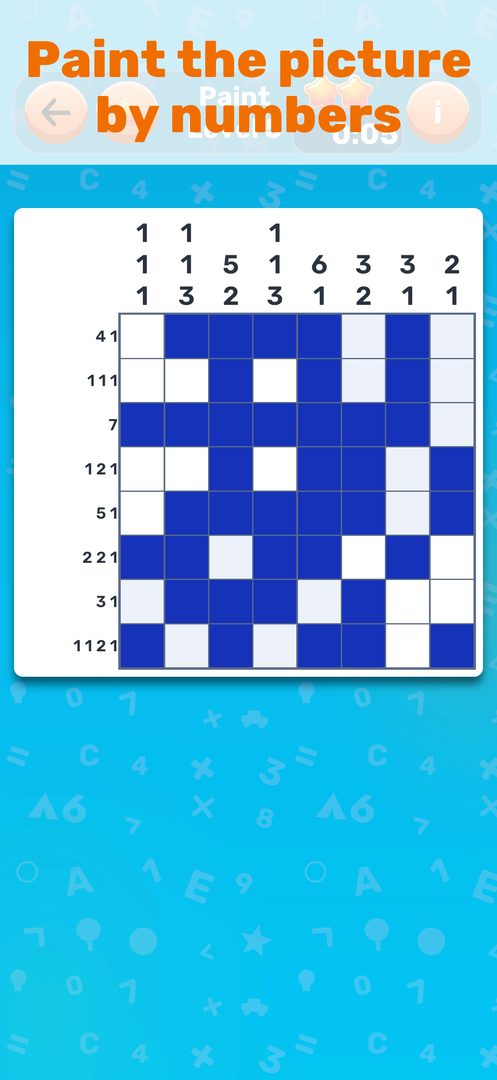
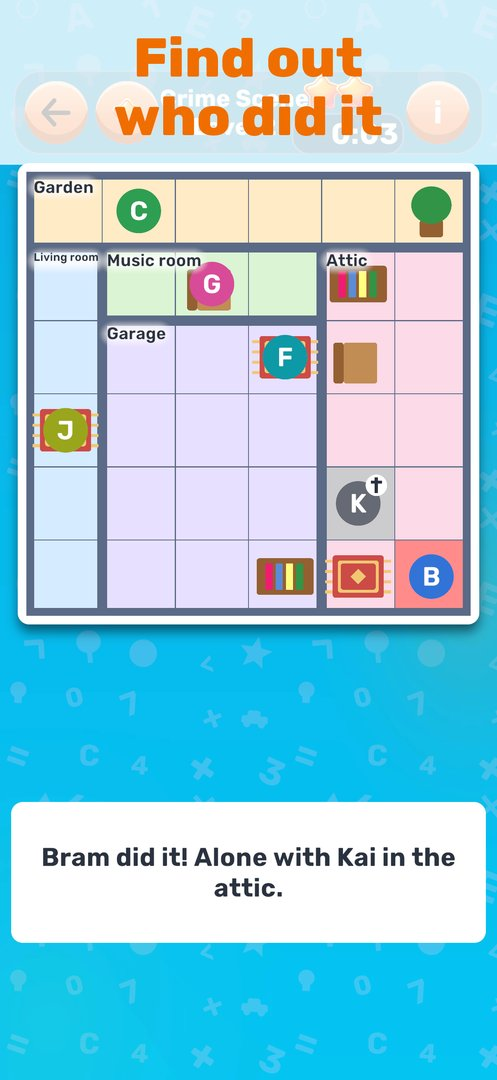
Offline set: refresh PuzzleKing slides (Sudoku, Crime Scene, Traffic Jam)
Taken from puzzle-promo's current iPhone 6.3" store stills, scaled to 1080 px
high. Same file names and metas, so the fallback asset needs no rebuild.
EditMode 118/118.

Claude-Session: https://claude.ai/code/session_01Rjw3u7jEnENNUurdGYa722

diff --git a/Packages/com.relead.crosspromo/CHANGELOG.md b/Packages/com.relead.crosspromo/CHANGELOG.md
@@ -1,5 +1,9 @@
 # Changelog
 
+## [Unreleased]
+
+- Offline fallback set: PuzzleKing slides are now Sudoku, Crime Scene and Traffic Jam (from the current store screenshots), instead of Sudoku, Paint and Checkmate.
+
 ## [0.1.0] - 2026-11-27
 
 - Video cross-promo (option A): catalog schemaVersion 1, daily catalog check (conditional GET, base-URL fallback), 2-slot wifi-only prefetch.
